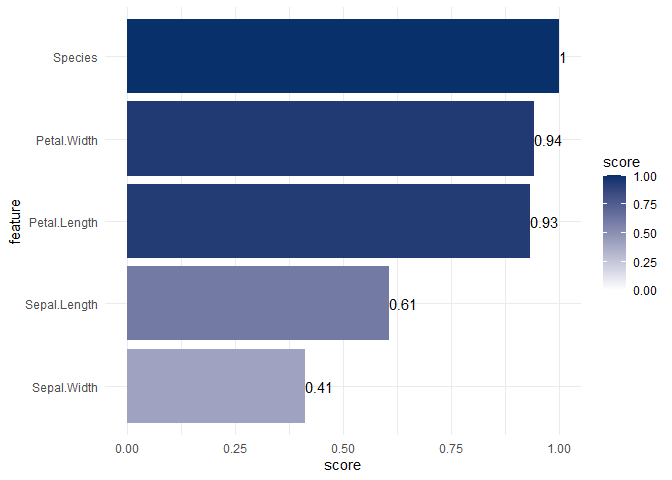
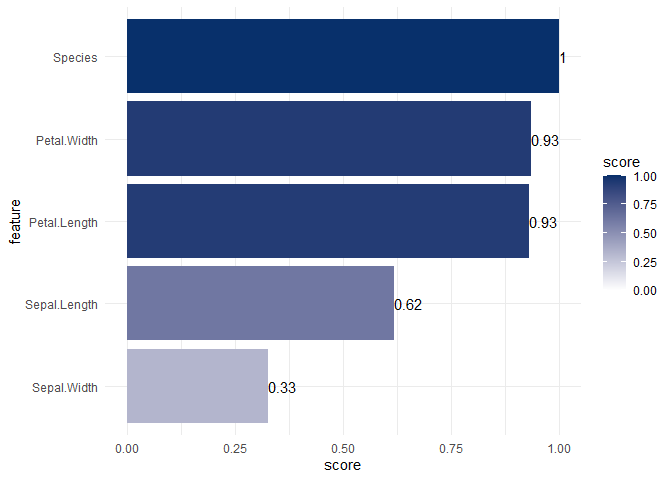
reworked readme

diff --git a/README.md b/README.md
@@ -13,7 +13,7 @@ power). It can be used as an alternative to the correlation (matrix).
 
 Read more about the (dis)advantages of the Predictive Power Score in
 [this blog
-post](https://towardsdatascience.com/rip-correlation-introducing-the-predictive-power-score-3d90808b9598)
+post](https://towardsdatascience.com/rip-correlation-introducing-the-predictive-power-score-3d90808b9598).
 
 ## Installation
 
@@ -28,21 +28,21 @@ devtools::install_github('https://github.com/paulvanderlaken/ppsr')
 
 ## Computing PPS
 
-There is not the one and only way to calculate the predictive power
-score. In fact, there are many possible ways to calculate a PPS that
-satisfies the definition mentioned before. You can think of the
-predictive power score as a framework for a family of scores.
+You can think of the predictive power score as a framework for a family
+of scores. There is not one single best way to calculate a predictive
+power score. In fact, there are many possible ways to calculate a PPS
+that satisfy the definition mentioned before.
 
 Currently, the `ppsr` package calculates PPS by default:
 
-  - Using the decision tree implementation of the `rpart` package,
-    wrapped by `parsnip`
+  - Using the default decision tree implementation of the `rpart`
+    package, wrapped by `parsnip`
   - Using 0 cross-validations
-  - Using F1 scores to evaluate classification models
-  - Using the modal or random classes as a naive benchmark for
-    classification models
-  - Using MAE to evaluate regression models
-  - Using the mean `y` value as a naive benchmark for regression models
+  - Using F1 scores to evaluate classification models. Scores are
+    normalized relatively to a naive benchmark consisting of predicting
+    the modal or random `y` classes
+  - Using MAE to evaluate regression models. Scores are normalized using
+    relatively to a naive benchmark of predicting the mean `y` value
 
 ## Usage
 
@@ -65,16 +65,16 @@ ppsr::score(x = iris$Sepal.Length, y = iris$Sepal.Width)
 ``` r
 ppsr::score_predictors(df = iris, y = 'Species')
 #> $Sepal.Length
-#> [1] 0.628054
+#> [1] 0.5393479
 #> 
 #> $Sepal.Width
-#> [1] 0.4262276
+#> [1] 0.4413768
 #> 
 #> $Petal.Length
-#> [1] 0.9357549
+#> [1] 0.9209851
 #> 
 #> $Petal.Width
-#> [1] 0.9389144
+#> [1] 0.9381262
 #> 
 #> $Species
 #> [1] 1
@@ -87,7 +87,7 @@ ppsr::score_matrix(df = iris)
 #> Sepal.Width     0.1822185   1.0000000    0.3000489   0.3174639 0.2237120
 #> Petal.Length    0.6687765   0.2815605    1.0000000   0.8072795 0.7972117
 #> Petal.Width     0.5436489   0.2301854    0.7732164   1.0000000 0.7630875
-#> Species         0.6013474   0.3393096    0.9338392   0.9349475 1.0000000
+#> Species         0.6225711   0.4401083    0.9236485   0.9325861 1.0000000
 ```
 
 ## Visualizing PPS
@@ -115,9 +115,8 @@ ppsr::visualize_matrix(df = iris)
 ## Open issues & development
 
 PPS is a relatively young concept, and likewise the `ppsr` package is
-still under development. The current package was built in only a few
-hours and will likely contain bugs and/or inefficiencies. If you have
-any improvements, please raise an issue.
+still under development. If you spot any bugs or potential improvements,
+please raise an issue or submit a pull request.
 
 On the developmental agenda are currently:
 
